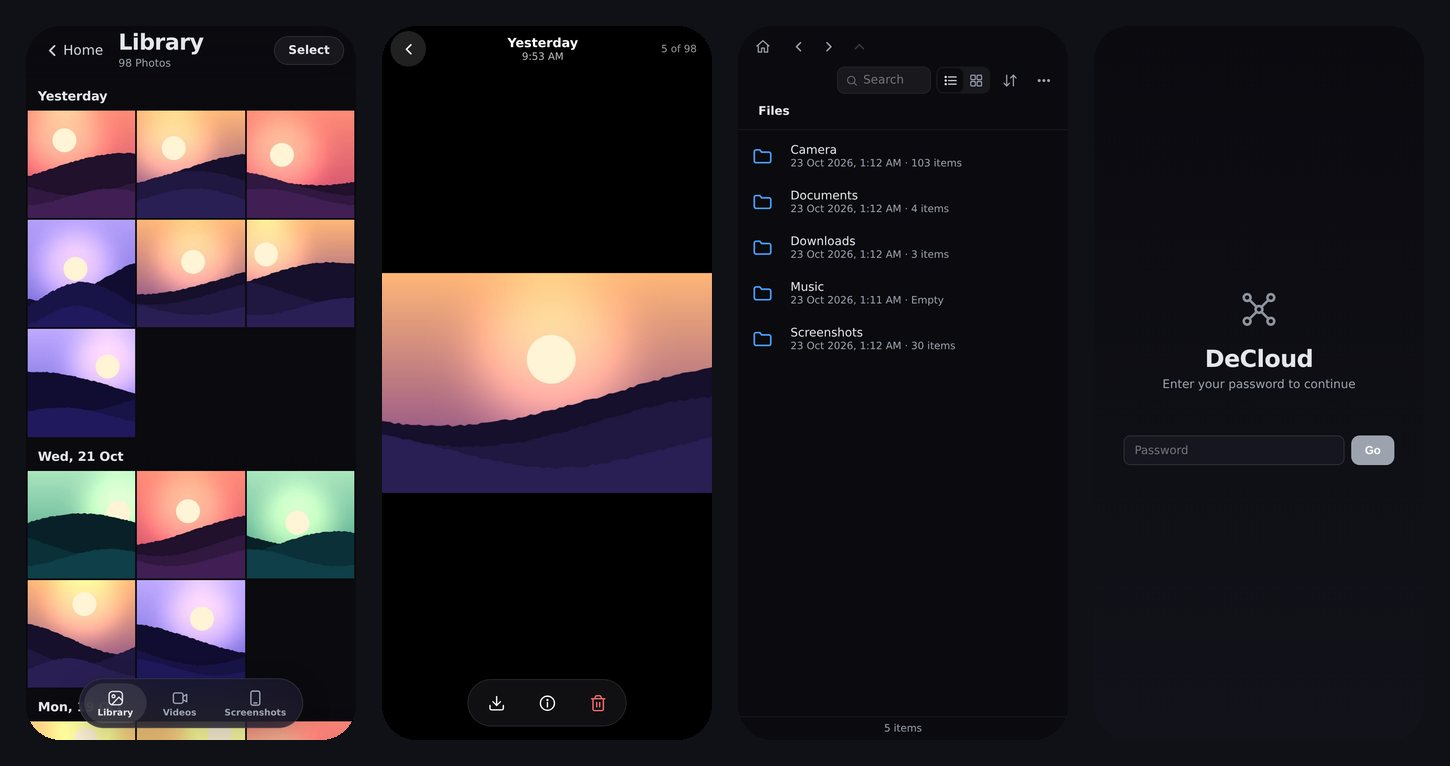
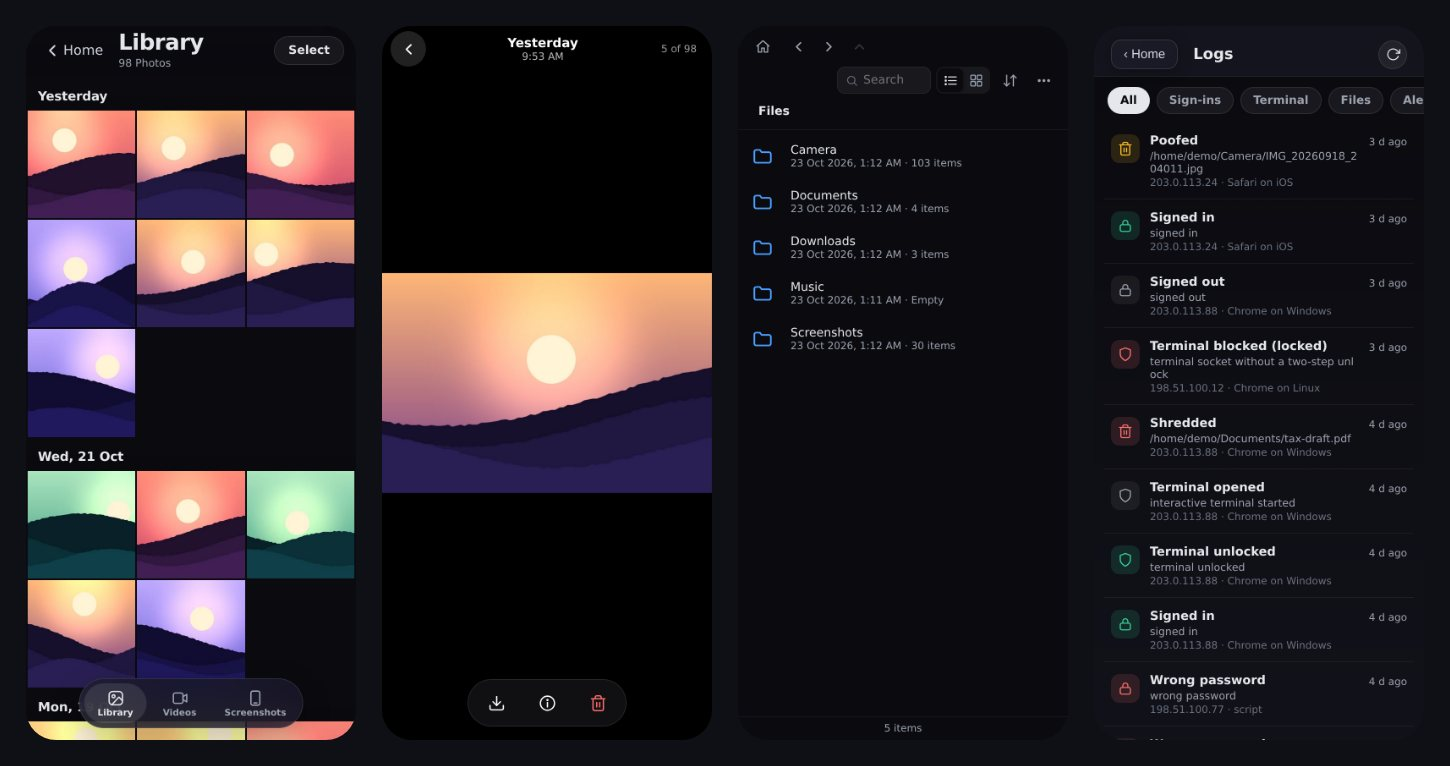
v0.6.5: README screenshots without the old name
- README: the Logs screenshot is the real Logs page again (it was the login screen) and the phone strip shows it too; no image shows the old name

diff --git a/routes/version.py b/routes/version.py
@@ -8,9 +8,18 @@ from flask import Blueprint, jsonify
 
 bp = Blueprint('version', __name__)
 
-VERSION = "0.6.4"
+VERSION = "0.6.5"
 
 CHANGELOG = [
+    {
+        "version": "0.6.5",
+        "date": "2026-10-26",
+        "changes": [
+            "README screenshots without the old name",
+            "README: the Logs screenshot is the real Logs page again and the phone strip shows it too",
+            "no image shows the old name",
+        ]
+    },
     {
         "version": "0.6.4",
         "date": "2026-10-26",
